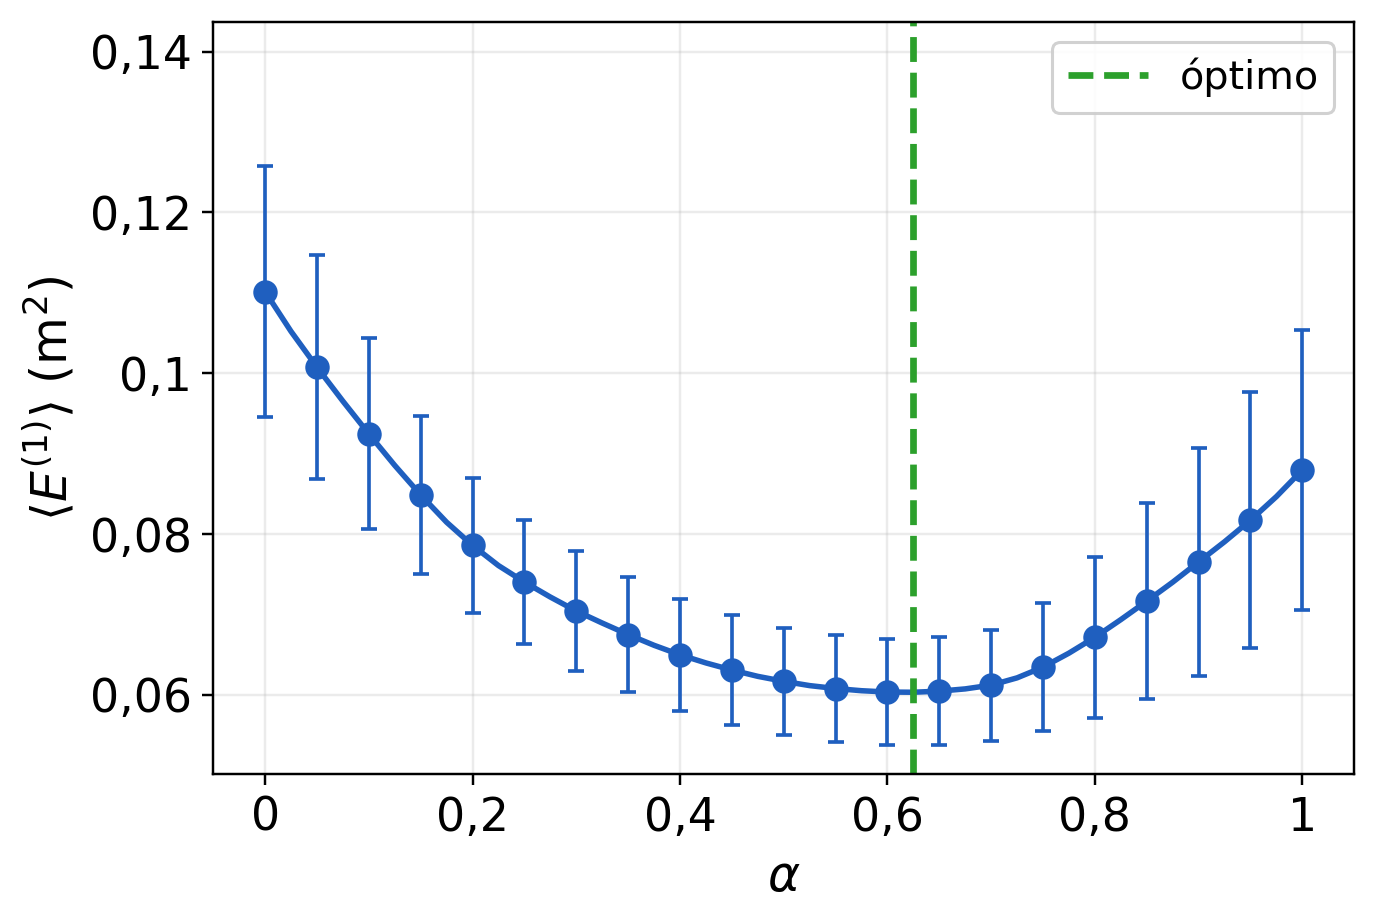
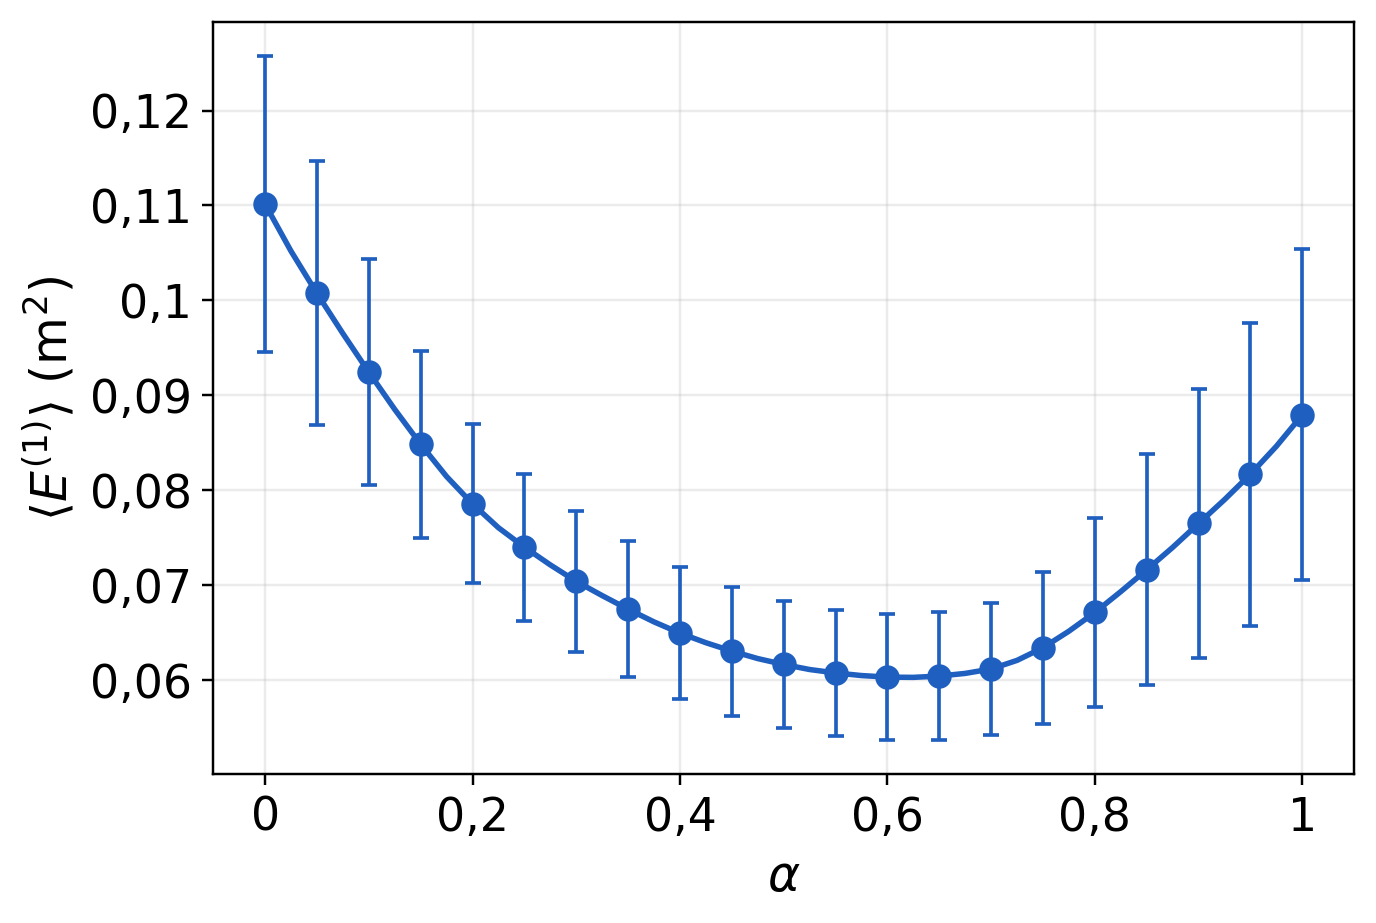
Curva de α sin la línea del óptimo: el valor se escribe a mano en la diapositiva

diff --git a/visualization/asymmetry.py b/visualization/asymmetry.py
@@ -7,8 +7,9 @@ otro se lleva 1 - alfa); alfa = 0,5 es la capa simetrica. Con t_a y d_s fijos
 en el optimo poblacional se optimiza alfa, SOLO CON LA METRICA 1 (el error a
 iguales tiempos; lo pidio la catedra):
 
-* `alfa_curva`: <E(1)>(alfa) con sus barras de error y el optimo marcado. Dice
-  si hay un lado que cede sistematicamente.
+* `alfa_curva`: <E(1)>(alfa) con sus barras de error (el optimo se informa por
+  consola y se escribe a mano en la diapositiva). Dice si hay un lado que cede
+  sistematicamente.
 * `alfa_histograma`: el histograma del alfa optimo de cada evento (uno por
   PAR de peatones, no por peaton), con la cantidad de eventos de cada barra y
   una linea vertical en el optimo global. Las barras tienen 0,125 de ancho y
@@ -215,11 +216,9 @@ def main() -> None:
     axes.plot(shares, mean, color=color, linewidth=1.8)
     axes.errorbar(shares[::every], mean[::every], yerr=sem[::every], color=color,
                   marker=marker, **common.ERRORBAR)
-    axes.axvline(shares[best], color=common.GLOBAL_COLOR, linestyle="--", linewidth=2.2,
-                 label="óptimo")
+    # Sin la linea del optimo: el valor se escribe a mano en la diapositiva.
     axes.set_xlabel(common.AXIS_ALPHA)
     axes.set_ylabel(common.METRIC_AVERAGE[metric])
-    common.legend_inside(axes)
 
     histogram, axes = plt.subplots(figsize=single)
     counts, _, bars = axes.hist(own_share, bins=BINS, color=common.EXPERIMENT_COLOR[0],
